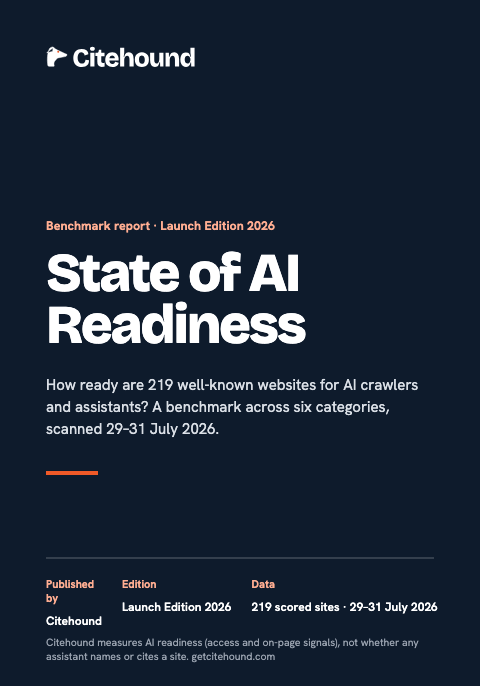
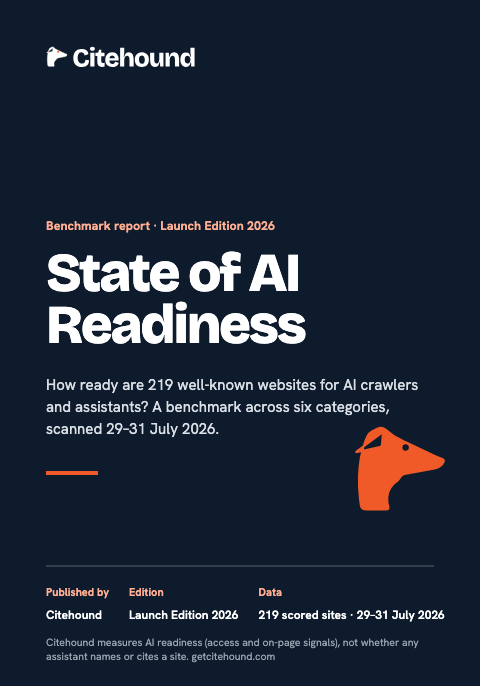
Readiness cover pictures: the hound beside the title block, the meta row no longer wraps

Changed region(s): [[0.0938, 0.7959, 0.9375, 0.9184], [0.7188, 0.6122, 0.9375, 0.7653]]

diff --git a/scripts/generate-readiness-cover.js b/scripts/generate-readiness-cover.js
@@ -25,10 +25,11 @@ function html(scale) {
     '.t{font-family:"Bricolage Grotesque";font-weight:800;letter-spacing:-0.04em;font-size:54px;line-height:0.98;margin-top:14px}' +
     '.s{font-size:15px;line-height:1.45;color:' + C.soft + ';margin-top:22px;max-width:380px}' +
     '.bar{width:52px;height:4px;background:' + C.orange + ';margin-top:30px}' +
-    '.meta{position:absolute;left:46px;right:46px;bottom:56px;border-top:2px solid rgba(255,255,255,.16);padding-top:18px;display:grid;grid-template-columns:auto auto 1fr;gap:20px}' +
-    '.meta small{display:block;font-size:11px;font-weight:700;color:' + C.orangeSoft + ';margin-bottom:4px}.meta b{font-size:12px;font-weight:600;white-space:nowrap;line-height:1.35}' +
+    '.meta{position:absolute;left:46px;right:46px;bottom:62px;border-top:2px solid rgba(255,255,255,.16);padding-top:18px;display:grid;grid-template-columns:auto auto 1fr;gap:20px}' +
+    '.meta small{display:block;white-space:nowrap;font-size:11px;font-weight:700;color:' + C.orangeSoft + ';margin-bottom:4px}.meta b{font-size:12px;font-weight:600;white-space:nowrap;line-height:1.35}' +
+    '.hd{position:absolute;right:30px;top:420px;height:96px;width:auto}' +
     '.f{position:absolute;left:46px;right:46px;bottom:22px;font-size:10.5px;line-height:1.4;color:#98A1AE}';
-  return art.shell(W * scale, H * scale, C.ink, css, '<img class="lk" src="' + uri('logo-lockup-dark.svg') + '" alt="">' +
+  return art.shell(W * scale, H * scale, C.ink, css, '<img class="lk" src="' + uri('logo-lockup-dark.svg') + '" alt=""><img class="hd" src="' + uri('logo-mark-orange.svg') + '" alt="">' +
     '<div class="k">Benchmark report · Launch Edition 2026</div><div class="t">State of AI Readiness</div>' +
     '<div class="s">How ready are 219 well-known websites for AI crawlers and assistants? A benchmark across six categories, scanned 29–31 July 2026.</div><div class="bar"></div>' +
     '<div class="meta"><div><small>Published by</small><b>Citehound</b></div><div><small>Edition</small><b>Launch Edition 2026</b></div><div><small>Data</small><b>219 scored sites · 29–31 July 2026</b></div></div>' +
